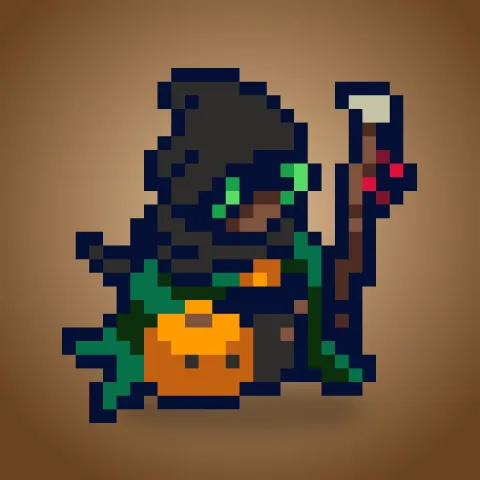
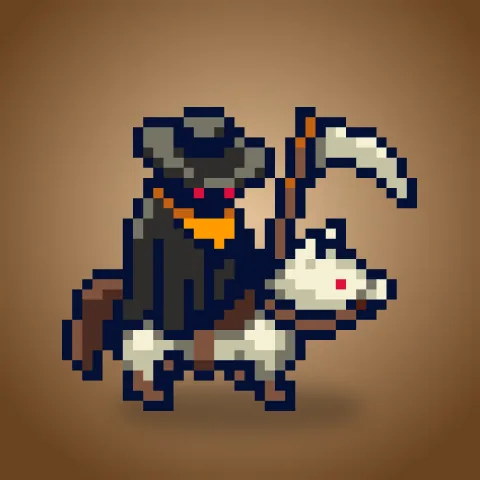
v0.12.4: Amalgam, Owl Summoner, Beast Vine; Owl rework; Stuffie Magic; Slime; Witch art; green modified stats
Claude-Session: https://claude.ai/code/session_01WPSHXdnTWEUNYN1dkDcgY6

diff --git a/tests/noslots.test.ts b/tests/noslots.test.ts
@@ -100,14 +100,12 @@ describe('cards rewritten without slots', () => {
     expect(gl.atk).toBe(5); // not kept
   });
 
-  it('Architect +2 Health and Owl gains a Tier 1 unit, each End of Turn', () => {
+  it('Architect +2 Health each End of Turn', () => {
     const { g, p } = setup();
     const ar = U(g, 'architect', 1, 1);
-    p.board = [ar, U(g, 'owl')];
+    p.board = [ar];
     endTurnEffects(g, p);
     expect(ar.hp).toBe(3);
-    expect(p.hand.length).toBe(1);
-    expect(def(p.hand[0].cardId).tier).toBe(1);
   });
 
   it('Patchwork gains +1/+4 whenever you gain a Kindred unit', () => {
@@ -525,5 +523,74 @@ describe('v0.12.3 Kindred', () => {
       // each of the 2 others gained 3 Health (Bannerlord's), so Peebnup gains 6 (Golden 12) on top of its own 3
       expect(at(c, f, 'peebnup_bubber')!.hp).toBe(8 + 3 + 6 * (golden ? 2 : 1));
     }
+  });
+});
+
+describe('v0.12.4 cards', () => {
+  it('Amalgam is a Tier 2 Neutral 3/2 of every faction; Beast Vine (Tier 5 Brambor 50/50) too', async () => {
+    const { isTribe } = await import('../src/engine/core');
+    const { g } = setup();
+    expect([def('amalgam').tier, def('amalgam').tribe, def('amalgam').atk, def('amalgam').hp]).toEqual([2, 'neutral', 3, 2]);
+    for (const t of ['kindred', 'brambor', 'cloister', 'alcove', 'demons', 'azure', 'neverending'] as const) {
+      expect(isTribe(U(g, 'amalgam'), t)).toBe(true);
+      expect(isTribe(U(g, 'beast_vine'), t)).toBe(true);
+    }
+    expect(def('larva').name).toBe('Slime');
+  });
+
+  it('Beast Vine: Battlecry and Deathrattle gain 2 random Gems (Golden: 4)', async () => {
+    const { GEMS } = await import('../src/engine/effects');
+    for (const golden of [false, true]) {
+      const { g, p, o } = setup();
+      p.hand = [U(g, 'beast_vine', undefined, undefined, golden)];
+      play(g, p, 0, 0);
+      expect(p.hand.filter((u) => GEMS.includes(u.cardId)).length).toBe(golden ? 4 : 2);
+      p.hand = [];
+      fight(g, p, o, [U(g, 'beast_vine', 1, 1, golden)], [U(g, 'skel', 5, 99)]).run();
+      expect(p.hand.filter((u) => GEMS.includes(u.cardId)).length).toBe(golden ? 4 : 2);
+    }
+  });
+
+  it('Stuffie Magic: Kindred units in the Tavern have +2/+2 from now on (Golden +4/+4)', async () => {
+    const { rollShop } = await import('../src/engine/game');
+    for (const golden of [false, true]) {
+      const { g, p } = setup();
+      p.tier = 6;
+      rollShop(g, p);
+      const before = p.shop.map((u) => [u.cardId, u.atk, u.hp] as const);
+      p.hand = [U(g, 'hug', undefined, undefined, golden)];
+      play(g, p, 0, 0);
+      const n = golden ? 4 : 2;
+      p.shop.forEach((u, i) => {
+        const k = def(u.cardId).tribe === 'kindred' || def(u.cardId).allTribes;
+        expect([u.atk, u.hp]).toEqual([before[i][1] + (k ? n : 0), before[i][2] + (k ? n : 0)]);
+      });
+      for (let r = 0; r < 20; r++) {
+        rollShop(g, p);
+        for (const u of p.shop) if (def(u.cardId).tribe === 'kindred') expect([u.atk, u.hp]).toEqual([def(u.cardId).atk + n, def(u.cardId).hp + n]);
+      }
+    }
+  });
+
+  it('Owl: 2/4, +1/+2 for each Owl summoned this game; Owl Summoner (Tier 5, Reborn) summons Owls', async () => {
+    const { effStats } = await import('../src/engine/core');
+    const { g, p, o } = setup();
+    expect([def('owl').atk, def('owl').hp]).toEqual([2, 4]);
+    const a = U(g, 'owl'), b = U(g, 'owl');
+    p.hand = [a, b];
+    play(g, p, 0, 0);
+    expect(effStats(p, a, 'board')).toMatchObject({ atk: 3, hp: 6 });
+    play(g, p, 0, 1);
+    expect(effStats(p, a, 'board')).toMatchObject({ atk: 4, hp: 8 });
+    // in battle: Owl Summoner (Reborn) dies twice and summons 2 Owls; the Owls in the fight grow with each
+    expect([def('owl_summoner').tier, def('owl_summoner').tribe, def('owl_summoner').keywords]).toEqual([5, 'cloister', ['reborn']]);
+    const own = U(g, 'owl_summoner', 1, 1); own.kw = ['reborn', 'taunt'];
+    const c = fight(g, p, o, [own, U(g, 'owl', 2, 4)], [U(g, 'skel', 1, 999)]);
+    c.run();
+    expect(p.owlsSummoned).toBe(4);
+    const seen = c.frames.flatMap((f) => f.sides[0]).filter((u) => u.cardId === 'owl');
+    expect(new Set(seen.map((u) => u.id)).size).toBe(3);
+    // the Owl brought in started at 4/8 (2 played Owls) and grew with each of the 2 summoned
+    expect(Math.max(...seen.map((u) => u.atk))).toBe(6);
   });
 });

diff --git a/src/ui/view.ts b/src/ui/view.ts
@@ -96,7 +96,7 @@ export function cardHtml(u: { cardId: string; golden: boolean; atk: number; hp: 
   const atk = o.atk ?? u.atk;
   const hp = o.hp ?? u.hp;
   const kw = o.kw ?? u.kw;
-  const cls = ['card', `t-${d.tribe}`, u.golden ? 'golden' : '', o.small ? 'small' : '', o.large ? 'large' : '', ...kw.map((k) => `kw-${k}`), u.mem?.locked ? 'locked' : '', o.extraClass ?? ''].join(' ');
+  const cls = ['card', `t-${d.tribe}`, d.allTribes ? 't-all' : '', u.golden ? 'golden' : '', o.small ? 'small' : '', o.large ? 'large' : '', ...kw.map((k) => `kw-${k}`), u.mem?.locked ? 'locked' : '', o.extraClass ?? ''].join(' ');
   const baseAtk = d.atk * (u.golden ? 2 : 1);
   const baseHp = d.hp * (u.golden ? 2 : 1);
   const icons = kw.filter((k) => k !== 'taunt' && k !== 'divineShield').map((k) => `<span class="kw-${k}" title="${KW_ICON[k][1]}">${KW_ICON[k][0]}</span>`).join('');
@@ -108,11 +108,11 @@ export function cardHtml(u: { cardId: string; golden: boolean; atk: number; hp: 
   <div class="kws">${icons}</div>
   <div class="abil">${tags}</div>
   <div class="name">${esc(d.name)}</div>
-  <div class="tribe-plate ${(TRIBE_SHORT[d.tribe] ?? d.tribe).length > 8 ? 'long' : ''}">${TRIBE_SHORT[d.tribe] ?? d.tribe}</div>${o.badge ?? ''}
+  <div class="tribe-plate ${(TRIBE_SHORT[d.tribe] ?? d.tribe).length > 8 && !d.allTribes ? 'long' : ''}">${d.allTribes ? 'ALL' : TRIBE_SHORT[d.tribe] ?? d.tribe}</div>${o.badge ?? ''}
   ${(u as { avenge?: string }).avenge ? `<div class="avenge-count" title="Avenge: friendly units died / needed"><i>⚔</i>${(u as { avenge?: string }).avenge}</div>` : ''}
   ${(() => { const c = (u as { note?: string }).note ?? (u.mem && (o.zone === "board" || o.zone === "combat" || o.zone === "hand") ? unitCounter(u as Unit) : null); return c ? `<div class="counter">${c}</div>` : ''; })()}
-  <div class="stat atk ${atk > baseAtk ? 'buffed' : ''}">${atk}</div>
-  <div class="stat hp ${hp > baseHp ? 'buffed' : hp < baseHp ? 'hurt' : ''}">${hp}</div>
+  <div class="stat atk ${atk !== baseAtk ? 'buffed' : ''}" data-base="${baseAtk}">${atk}</div>
+  <div class="stat hp ${hp > baseHp ? 'buffed' : hp < baseHp ? 'hurt' : ''}" data-base="${baseHp}">${hp}</div>
 </div>`;
 }
 
@@ -163,14 +163,15 @@ export function bigCardHtml(u: { cardId: string; golden: boolean; atk: number; h
   if (u.cardId === 'larva' && u.mem?.done) text += ' (Done!)';
   if (u.cardId === 'intern') text += ` (Sells for ${1 + (u.mem?.sellBonus ?? 0)} Gold)`;
   const kwExtra = u.kw.filter((k) => !d.keywords.includes(k)).map((k) => KW_ICON[k][1]);
-  return `<div class="bigcard t-${d.tribe} ${u.golden ? 'golden' : ''} ${extra}">
+  const bA = d.atk * (u.golden ? 2 : 1), bH = d.hp * (u.golden ? 2 : 1);
+  return `<div class="bigcard t-${d.tribe} ${d.allTribes ? 't-all' : ''} ${u.golden ? 'golden' : ''} ${extra}">
   <div class="art" style="background-image:url('${cardArt(u.cardId)}')"></div>
   <div class="tier" title="Tier ${d.tier}">${'★'.repeat(d.tier)}</div>
   <div class="name">${u.golden ? 'Golden ' : ''}${esc(d.name)}</div>
-  <div class="tribe"><span>${esc(TRIBE_NAMES[d.tribe] ?? d.tribe)}${d.token ? ' · Token' : ''}</span></div>
+  <div class="tribe"><span>${d.allTribes ? 'All Factions' : esc(TRIBE_NAMES[d.tribe] ?? d.tribe)}${d.token ? ' · Token' : ''}</span></div>
   <div class="text"><div>${text ? formatText(text) : kwExtra.length ? '' : '<i>No ability.</i>'}${kwExtra.length ? `${text ? '<br>' : ''}<i class="kw-extra">${kwExtra.join(', ')}</i>` : ''}</div></div>
-  <div class="stat atk">${u.atk}</div>
-  <div class="stat hp">${u.hp}</div>
+  <div class="stat atk ${u.atk !== bA ? 'buffed' : ''}">${u.atk}</div>
+  <div class="stat hp ${u.hp > bH ? 'buffed' : u.hp < bH ? 'hurt' : ''}">${u.hp}</div>
 </div>`;
 }
 

diff --git a/src/ui/app.ts b/src/ui/app.ts
@@ -1206,6 +1206,7 @@ export class App {
         const a = el?.querySelector('.stat.atk'); const h = el?.querySelector('.stat.hp');
         if (a && b.atk) a.textContent = String(Number(a.textContent) - b.atk);
         if (h && b.hp) h.textContent = String(Number(h.textContent) - b.hp);
+        restat(a); restat(h);
         // new keywords too (Tinker's Divine Shield etc.) appear when the effect lands
         for (const k of b.kw) { el?.classList.remove(`kw-${k}`); const sp = el?.querySelector(`.kws .kw-${k}`) as HTMLElement | null; if (sp) sp.style.visibility = 'hidden'; }
       }
@@ -1288,6 +1289,7 @@ export class App {
               const a = el.querySelector('.stat.atk'); const h = el.querySelector('.stat.hp');
               if (a && b.atk) { a.textContent = String(Number(a.textContent) + b.atk); a.classList.remove('stat-bump'); void (a as HTMLElement).offsetWidth; a.classList.add('stat-bump'); }
               if (h && b.hp) { h.textContent = String(Number(h.textContent) + b.hp); h.classList.remove('stat-bump'); void (h as HTMLElement).offsetWidth; h.classList.add('stat-bump'); }
+              restat(a); restat(h);
             }
             sfx.zap();
           }, dur + delay);
@@ -1930,4 +1932,15 @@ export class App {
     this.sel = null;
     this.commit();
   }
+}
+
+/** a stat badge's colour follows its number: bright green when it differs from the card's base stat (red tint: hurt) */
+function restat(el: Element | null | undefined) {
+  if (!el) return;
+  const base = Number((el as HTMLElement).dataset.base);
+  if (Number.isNaN(base)) return;
+  const v = Number(el.textContent);
+  const hp = el.classList.contains('hp');
+  el.classList.toggle('buffed', hp ? v > base : v !== base);
+  el.classList.toggle('hurt', hp && v < base);
 }

diff --git a/src/engine/game.ts b/src/engine/game.ts
@@ -173,7 +173,7 @@ export function startTurn(g: GameState, p: Player) {
           u.mem.done = 1;
           const nu = makeUnit(g, id, true);
           gainCard(g, p, nu);
-          log(p, `Larva hatched ${displayName(nu)}!`);
+          log(p, `Slime hatched ${displayName(nu)}!`);
         }
       }
     });
@@ -209,7 +209,10 @@ export function rollShop(g: GameState, p: Player) {
     // Teched Up: no Tier 1 or 2 (a Tier 1-2 tavern still sees Tier 3)
     const teched = hasTrinket(p, 'healing_draught');
     const id = drawFromPool(g, (cid) => (teched ? def(cid).tier >= 3 && def(cid).tier <= Math.max(3, p.tier) : def(cid).tier <= p.tier));
-    if (id) p.shop.push(makeUnit(g, id));
+    if (!id) continue;
+    const u = makeUnit(g, id);
+    if (p.stuffieBonus && isTribe(u, 'kindred')) { u.atk += p.stuffieBonus; u.hp += p.stuffieBonus; } // Stuffie Magic
+    p.shop.push(u);
   }
 }
 
@@ -432,6 +435,7 @@ export function play(g: GameState, p: Player, handIdx: number, pos: number, targ
   p.hand.splice(handIdx, 1);
   pos = Math.max(0, Math.min(pos, p.board.length));
   p.board.splice(pos, 0, u);
+  if (u.cardId === 'owl') p.owlsSummoned = (p.owlsSummoned ?? 0) + 1;
   u.mem.pv = u.hp; // Health it had in hand doesn't count as gained (Peebnup Bubber)
   const target = targetUid !== undefined ? p.board.find((b) => b.uid === targetUid) : undefined;
   if (hasBattlecry(u.cardId)) { p.battlecryUnitsThisTurn = (p.battlecryUnitsThisTurn ?? 0) + 1; runBattlecry(g, p, u, target); }

diff --git a/tests/abilities.test.ts b/tests/abilities.test.ts
@@ -23,7 +23,7 @@ function setup(seed: number) {
 
 const snap = (g: GameState, p: Player, extra: unknown = null) =>
   JSON.stringify([p.board, p.hand, p.trinketOffer, p.trinkets, p.discovers, p.quests, p.gold, p.maxGoldBonus, p.tribeAtk, p.gemBonus, p.redGemBonus,
-    p.bannerBonus, p.alcoveAtkThisTier, p.twinBonus, p.freeRerolls, p.upgradeCost, p.shop, p.overflow, extra]);
+    p.bannerBonus, p.alcoveAtkThisTier, p.twinBonus, p.stuffieBonus, p.freeRerolls, p.upgradeCost, p.shop, p.overflow, extra]);
 
 describe('every ability changes something', () => {
   const ids = CARDS.filter((c) => EFFECTS[c.id]).map((c) => c.id);
@@ -92,7 +92,7 @@ describe('every ability changes something', () => {
   }
 
   it('every card with ability text has an ability', () => {
-    const PASSIVE = new Set(['remember', 'vulnerability', 'root', 'larva', 'orange_ninja', 'pyro', 'treasure', 'warmech', 'gem_wizard', 'sarinee', 'tom_judith', 'horseman', 'shield_azure', 'roll_guard', 'ash', 'white_ninja', 'peebnup_bubber']);
+    const PASSIVE = new Set(['remember', 'vulnerability', 'root', 'larva', 'orange_ninja', 'pyro', 'treasure', 'warmech', 'gem_wizard', 'sarinee', 'tom_judith', 'horseman', 'shield_azure', 'roll_guard', 'ash', 'white_ninja', 'peebnup_bubber', 'owl']);
     const missing = CARDS.filter((c) => !c.token && c.text && !PASSIVE.has(c.id) && !Object.keys(EFFECTS[c.id] ?? {}).length).map((c) => c.id);
     expect(missing).toEqual([]);
     expect(def('skel').text).toBe('');

diff --git a/src/engine/effects.ts b/src/engine/effects.ts
@@ -342,7 +342,12 @@ export const EFFECTS: Record<string, Effect> = {
     onGain: (c, u) => { if (isTribe(u, 'kindred')) buff(c.self, c.m, 4 * c.m); },
   },
   hug: {
-    battlecry: (c) => buff(pick(c.g, c.p.hand.filter((u) => isTribe(u, 'kindred'))), 6 * c.m, 6 * c.m),
+    // Stuffie Magic: Kindred units in the Tavern have +2/+2 from now on (the ones there now, and every one dealt later)
+    battlecry: (c) => {
+      const n = 2 * c.m;
+      c.p.stuffieBonus = (c.p.stuffieBonus ?? 0) + n;
+      for (const u of c.p.shop) if (isTribe(u, 'kindred')) buff(u, n, n);
+    },
   },
   pink_gem: {
     // Divine Shield and +1/+1 (+1/+1 per improvement; Golden doubles); a Kindred unit gets the +1/+1 twice
@@ -508,8 +513,13 @@ export const EFFECTS: Record<string, Effect> = {
       }
     },
   },
-  owl: {
-    endTurn: (c) => { for (let i = 0; i < c.m; i++) gain(c, randomTier(c, 1)); },
+  owl: {}, // +1/+2 per Owl summoned this game: an aura (core.ts ownerBonus), counted in play() and Combat.spawn
+  owl_summoner: {
+    deathrattle: (c) => c.c.spawnMany(c.side, 'owl', c.m === 2, 1, c.pos),
+  },
+  beast_vine: {
+    battlecry: (c) => { for (let i = 0; i < 2 * c.m; i++) gain(c, pick(c.g, GEMS)); },
+    deathrattle: (c) => { for (let i = 0; i < 2 * c.m; i++) gain(c, pick(c.g, GEMS)); c.c.snap('trigger', { note: `Beast Vine: Gain ${2 * c.m} Gems` }); },
   },
   secret: {
     soc: (c) => { c.side.secrets.push(c.m === 2); },

diff --git a/src/ui/styles.css b/src/ui/styles.css
@@ -1261,7 +1261,7 @@ svg.aim-arrow.locked .aim-ring { opacity: 0.9; animation: aim-ring 0.9s ease-in-
 .bigcard .stat.atk { left: -18px; width: 72px; } .bigcard .stat.hp { right: -12px; box-shadow: 0 0 0 4px #fff; }
 #stage.portrait .card.large .stat { width: 66px; height: 66px; font-size: 40px; }
 #stage.portrait .card.small .stat { width: 52px; height: 52px; font-size: 32px; }
-.card .stat.buffed { color: #d9ffb0; }
+.card .stat.buffed, .bigcard .stat.buffed { color: #3dff5a; }
 .card .stat.hurt { color: #ffd2d2; text-decoration: none; }
 
 /* =====================================================================
@@ -1590,3 +1590,9 @@ svg.aim-arrow.locked .aim-ring { opacity: 0.9; animation: aim-ring 0.9s ease-in-
 #stage.portrait .trinketcard .pc { font-size: 34px !important; }
 .rating-adjust { align-items: center; }
 .rating-adjust .rating-val { min-width: 74px; text-align: center; font-family: var(--display); font-size: 22px; }
+
+/* units of every faction (Amalgam, Beast Vine, Pumpkin): a rainbow plate */
+.card.t-all .tribe-plate, .bigcard.t-all .tribe span {
+  background: linear-gradient(90deg, var(--t-kindred), var(--t-demons), var(--t-alcove), var(--t-cloister), var(--t-azure), var(--t-neverending));
+  color: #fff; text-shadow: 0 1px 0 rgba(0, 0, 0, 0.55), 0 0 3px rgba(0, 0, 0, 0.5); letter-spacing: 0.12em;
+}

diff --git a/src/engine/combat.ts b/src/engine/combat.ts
@@ -180,6 +180,11 @@ export class Combat {
     if (s.units.filter((u) => u.hp > 0).length >= CONFIG.boardSize) return null;
     const d = def(cardId);
     const m = golden ? 2 : 1;
+    if (cardId === 'owl') {
+      // Owls have +1/+2 for each Owl summoned this game: this one counts, and the Owls already fighting grow too
+      s.owner.owlsSummoned = (s.owner.owlsSummoned ?? 0) + 1;
+      for (const o of s.units) if (o.cardId === 'owl' && o.hp > 0) { o.atk += mult(o); o.hp += 2 * mult(o); }
+    }
     // a fresh unit gets the same "all your X units have…" bonuses as the ones you brought in
     const bonus = ownerBonus(s.owner, { cardId, golden } as Body);
     const cu = this.makeCU(s.idx, cardId, golden, d.atk * m + bonus.atk, d.hp * m + bonus.hp, d.keywords, null);

diff --git a/src/engine/core.ts b/src/engine/core.ts
@@ -126,6 +126,11 @@ export function ownerBonus(p: Player, b: Body): { atk: number; hp: number } {
   if (p.trinkets?.includes('bronze_compass') && isTribe(b, 'neverending')) atk += 12; // Bronze Compass
   if (isTribe(b, 'alcove')) atk += p.alcoveAtkThisTier ?? 0; // Scientist
   if (b.cardId === 'left_twinbot' || b.cardId === 'right_twinbot') { atk += p.twinBonus ?? 0; }
+  if (b.cardId === 'owl') {
+    // +1/+2 per Owl summoned this game (Golden: double)
+    atk += mult(b) * (p.owlsSummoned ?? 0);
+    hp += 2 * mult(b) * (p.owlsSummoned ?? 0);
+  }
   if (b.cardId === 'warmech') {
     // +4/+2 per Deathrattle triggered this game (Golden: double)
     atk += 4 * mult(b) * (p.deathrattlesGame ?? 0);

diff --git a/src/engine/types.ts b/src/engine/types.ts
@@ -102,6 +102,10 @@ export interface Player {
   /** Tinker: extra stats for Alcove units in the shop, for the rest of the game (name kept so saved games still load) */
   tinkerThisTier: number;
   bannerBonus: number;
+  /** Stuffie Magic: extra stats for Kindred units dealt into the Tavern */
+  stuffieBonus?: number;
+  /** Owls summoned (played or summoned in battle) this game */
+  owlsSummoned?: number;
   redGemBonus: number;
   battlecriesThisTurn: number;
   /** Battlecry units played this turn (Chaos) */

diff --git a/CHANGELOG.md b/CHANGELOG.md
@@ -2,6 +2,9 @@
 
 Newest first. The version shows on the title screen.
 
+## 0.12.4 — 2026-11-17
+- Amalgam (T2 Neutral, all factions), Owl Summoner (T5 Cloister), Beast Vine (T5 Brambor, all factions). Owl reworked: 2/4, +1/+2 per Owl summoned. Stuffie Magic: Kindred in the Tavern +2/+2 for the rest of the game. Larva is now Slime. New Witch art. Modified stats are bright green.
+
 ## 0.12.3 — 2026-11-16
 - Battle intro: the Tavern clears and your opponent's army drops in one by one. Grief: Upgrading costs 2 less (Golden 4). Life: Start of Combat gain a Pink Gem. Pink Gem: Divine Shield and +1/+1 (twice for Kindred). Honeysuckle Tier 4. New Kindred: Peebnup Bubber (T5) and Elemental (T6).
 
